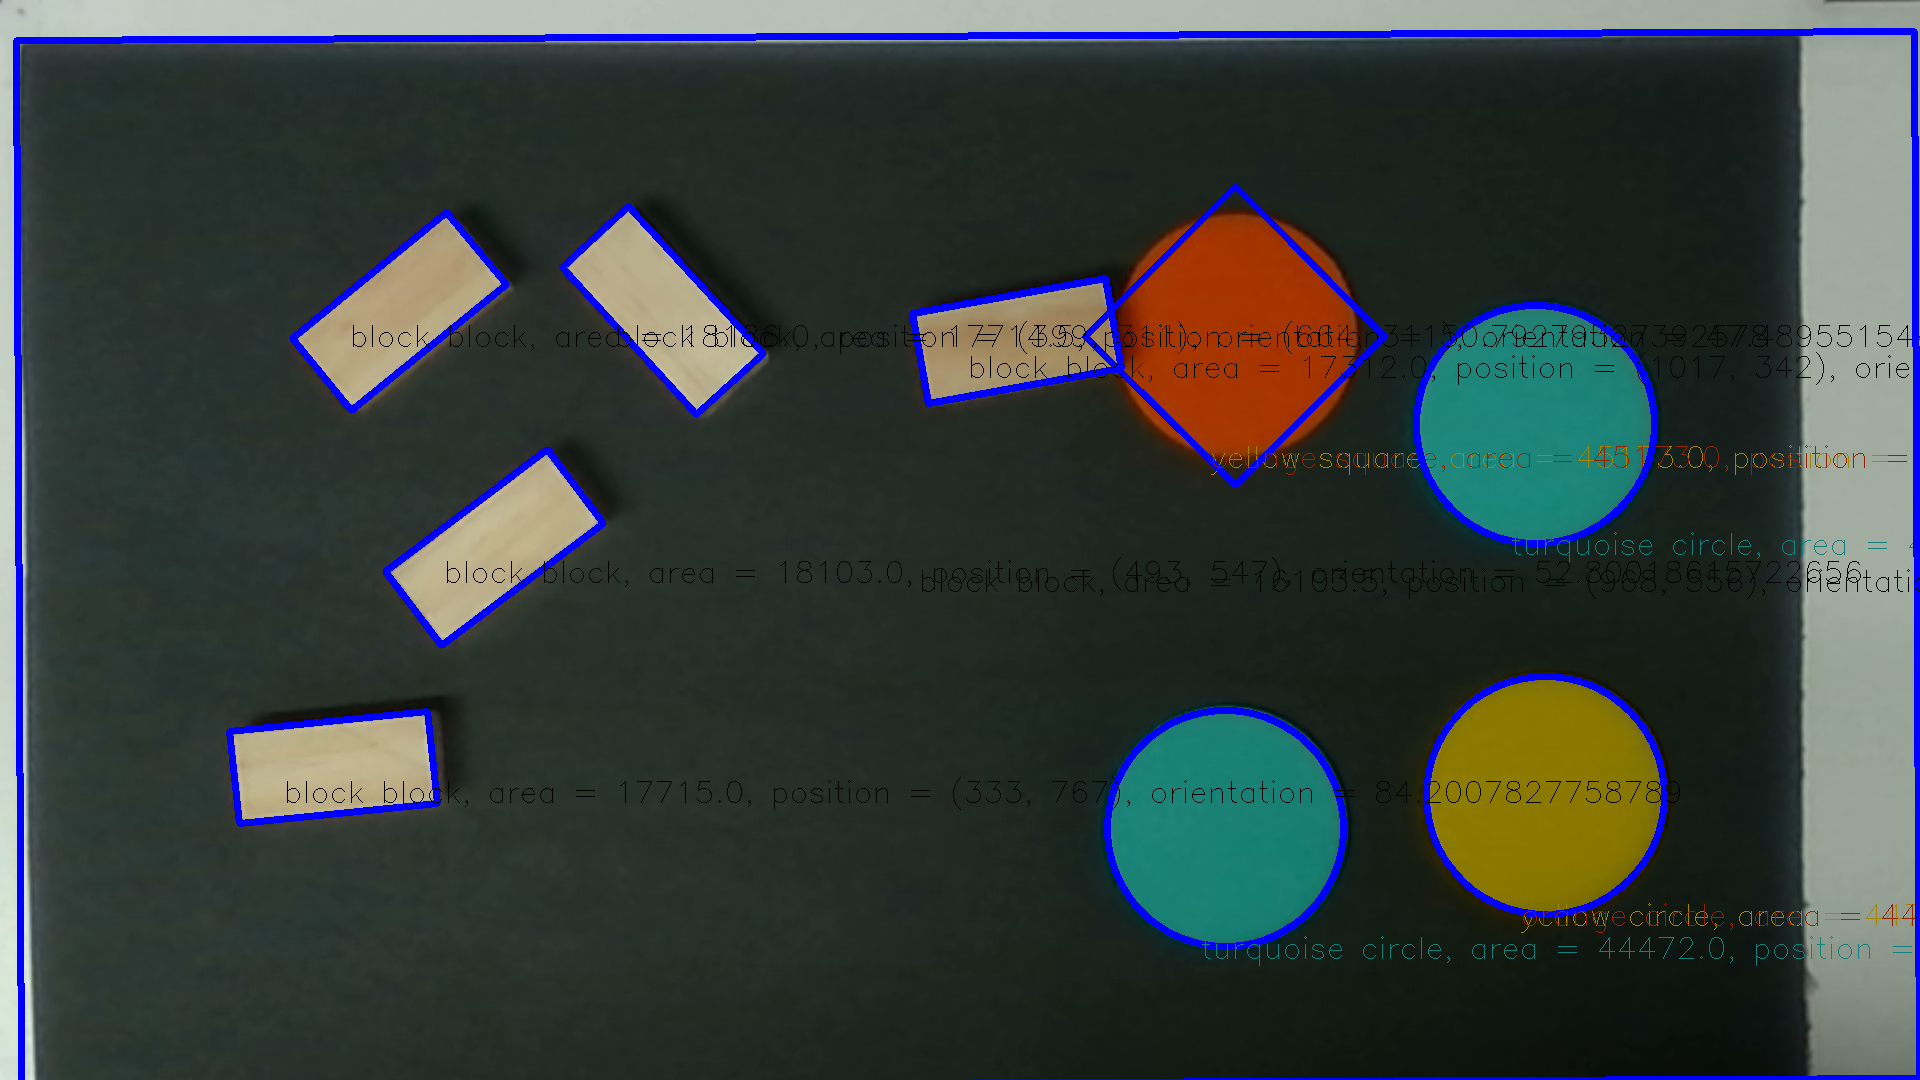
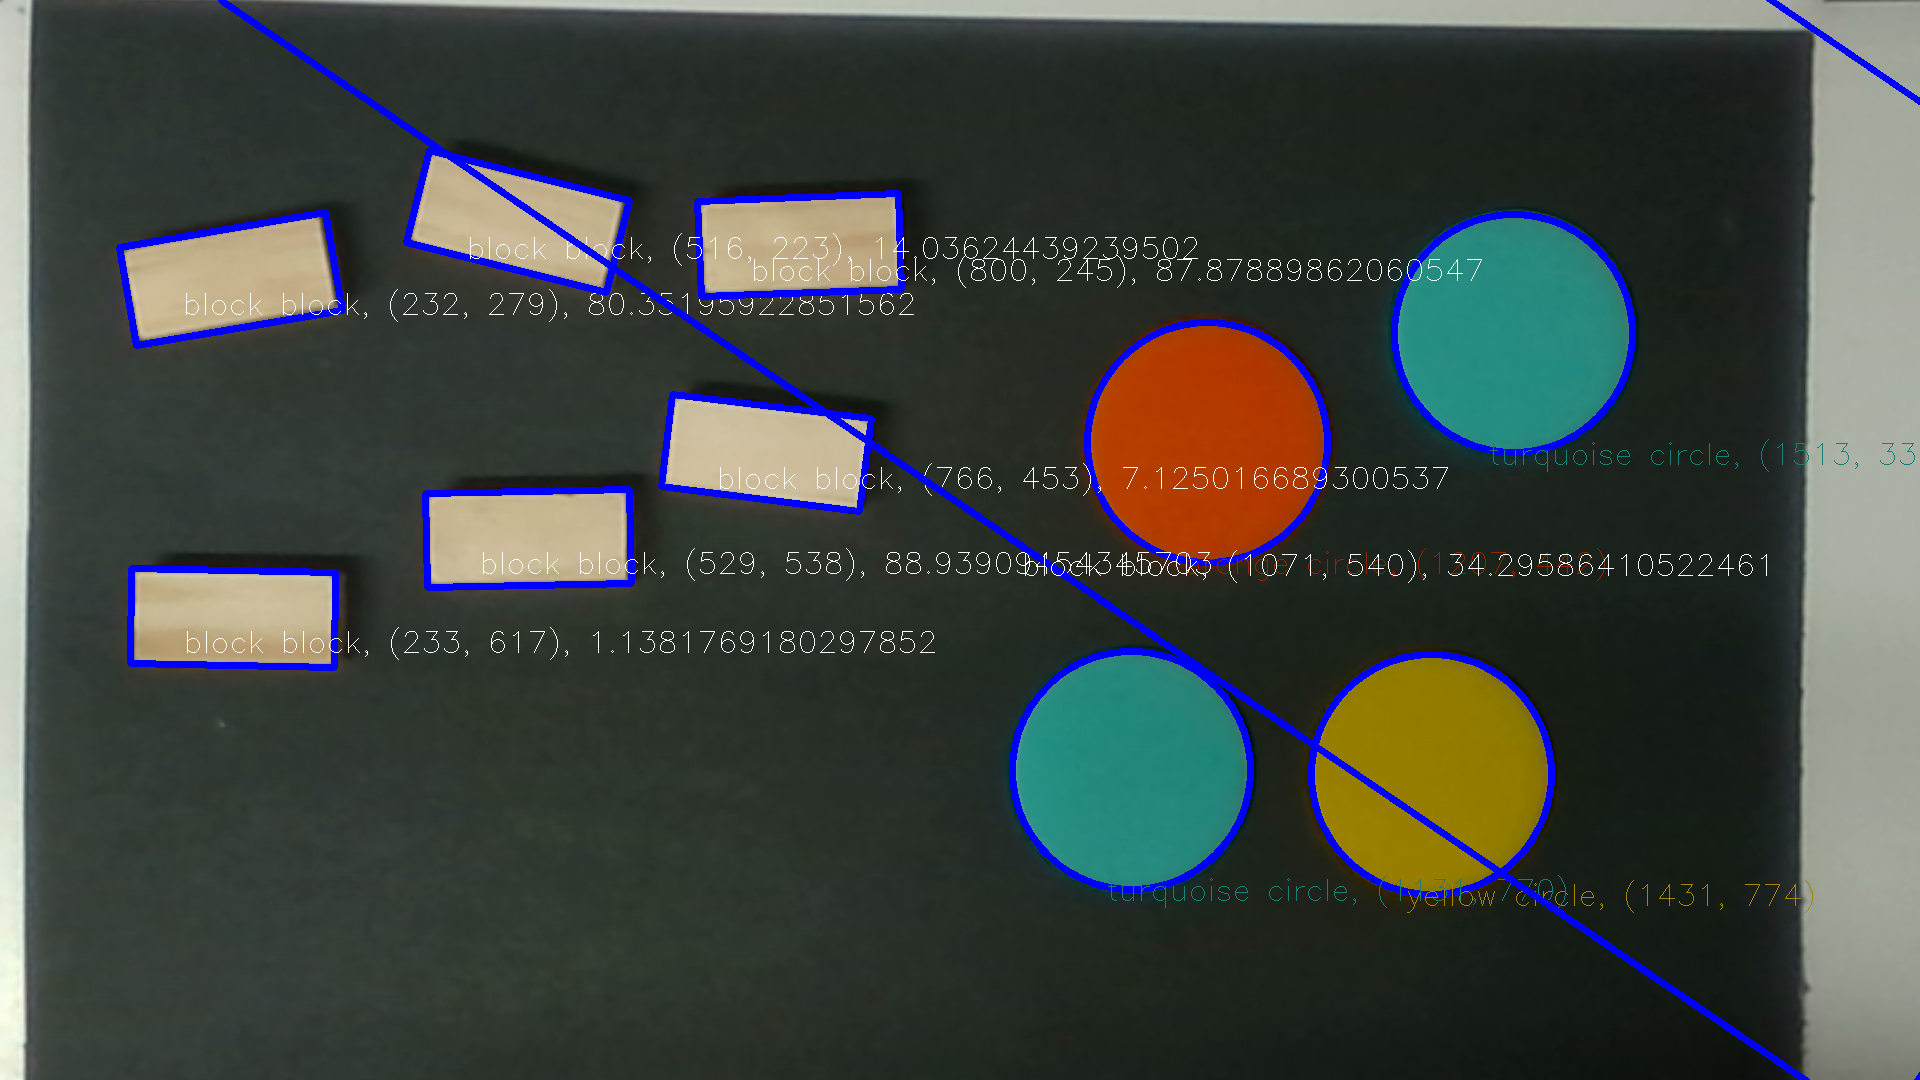
update 4/25

diff --git a/final/tower1movement.py b/final/tower1movement.py
@@ -3,7 +3,8 @@ import compas.geometry as cg
 import json
 import math
 
-task_frame = cg.Frame.from_points([248.49, 192.44, 26.81], [-229.4, 192.41, 24], [247.98, 494.92, 26.35])
+# task_frame = cg.Frame.from_points([248.49, 192.44, 26.81], [-229.4, 192.41, 24], [247.98, 494.92, 26.35])
+task_frame = cg.Frame.from_points([244.76, 189.79, 25], [-228.99, 203.04, 25], [249.35, 489.06, 25])
 speed = 150
 
 def transform_task_to_world_frame(ee_frame_t: cg.Frame, task_frame: cg.Frame) -> cg.Frame:
@@ -26,7 +27,7 @@ def transform_task_to_world_frame(ee_frame_t: cg.Frame, task_frame: cg.Frame) ->
     # print("T is", T)
     ee_frame_t.transform(T)
     ee_frame_w = ee_frame_t
-    print("ee_frame_w is", ee_frame_w)
+    # print("ee_frame_w is", ee_frame_w)
     
     # ====================================================================================
     return ee_frame_w
@@ -41,36 +42,35 @@ def move_to_t_point(abb_rrc, x: float, y: float, z: float):
     x = x / ppi * inch_to_mm
     y = y / ppi * inch_to_mm
     # z = z / ppi * inch_to_mm
-    print("x", x, "y", y, "z", z)
+    print("moving to point: x", x, "y", y, "z", z)
     # Convert task frame position to world frame position
     ee_frame_w = abb_rrc.send_and_wait(rrc.GetFrame())
     ee_frame_t = cg.Frame([x, y, z], [1, 0, 0], [0, 1, 0]) # where we want to move the EE to
     ee_frame_w = transform_task_to_world_frame(ee_frame_t, task_frame) 
     print("after transformation, ee_frame_w is ", ee_frame_w)
-    print("moving to new position: ", x, y, z)
     # Move the robot to the new position
     done = abb_rrc.send_and_wait(rrc.MoveToFrame(ee_frame_w, speed, rrc.Zone.FINE, rrc.Motion.LINEAR))
 
 def move_keep_rotation(abb_rrc, x, y, z, orientation):
     angle = math.radians(orientation)
     current_frame = abb_rrc.send_and_wait(rrc.GetFrame())
-    rotation = cg.Rotation.from_axis_and_angle([0, 0, 1], angle, point=[x, y, z])
+    rotation = cg.Rotation.from_axis_and_angle([0, 0, 1], angle, point=current_frame.point)
     # Apply the rotation to the current end effector frame
     rotated_frame = current_frame.transformed(rotation)
     # Move the robot to the rotated frame
+    print("move keep rotation, moving to frame", rotated_frame)
     abb_rrc.send_and_wait(rrc.MoveToFrame(rotated_frame, speed, rrc.Zone.FINE, rrc.Motion.LINEAR))
 
 def move_to_t_point_rhino(abb_rrc, x: float, y: float, z: float):
     """
     Move end effector to a point in the task frame. 
     """
-    print("x", x, "y", y, "z", z)
+    print("moving to point rhino: x", x, "y", y, "z", z)
     # Convert task frame position to world frame position
     ee_frame_w = abb_rrc.send_and_wait(rrc.GetFrame())
     ee_frame_t = cg.Frame([x, y, z], [1, 0, 0], [0, 1, 0]) # where we want to move the EE to
     ee_frame_w = transform_task_to_world_frame(ee_frame_t, task_frame) 
     print("after transformation, ee_frame_w is ", ee_frame_w)
-    print("moving to new position: ", x, y, z)
 
     # Move the robot to the new position
     done = abb_rrc.send_and_wait(rrc.MoveToFrame(ee_frame_w, speed, rrc.Zone.FINE, rrc.Motion.LINEAR))
@@ -103,7 +103,7 @@ def pick_and_place(abb_rcc, object, ground_objects):
 
     # find where the object is and pick it up
     print("picking", color, shape)
-    pick_object(abb_rcc, pick_location, shape)
+    pick_object(abb_rcc, pick_location, shape, rotation)
 
     # place the object according to position specified in object
     print("placing", color, shape)
@@ -112,39 +112,41 @@ def pick_and_place(abb_rcc, object, ground_objects):
     print("-----------------------------------------------------")
 
 
-def pick_object(abb_rrc, pick_location, shape):
+def pick_object(abb_rrc, pick_location, shape, angle):
     # move to object, then down on object
     x = pick_location[0]
     y = pick_location[1]
     z = pick_location[2]
     # get orientation
-    orientation = 0
     # one block is about 3.125 mm
     move_to_t_point(abb_rrc, x, y, z - 20)
 
-    # if shape == "block":
+    if shape == "block":
         # rotate gripper to match block
-        # current_frame = abb_rrc.send_and_wait(rrc.GetFrame())
+        current_frame = abb_rrc.send_and_wait(rrc.GetFrame())
         # move_keep_rotation(abb_rrc, x, y, z, orientation)
         # # create rotation transformation around Z axis at the current location
         # # rotation is already in radians
-        # # angle = math.radians(angle)
-        # rotation = cg.Rotation.from_axis_and_angle([0, 0, 1], orientation, point=current_frame.point)
+        orientation = math.radians(angle)
+        rotation = cg.Rotation.from_axis_and_angle([0, 0, 1], orientation, point=current_frame.point)
         # # Apply the rotation to the current end effector frame
-        # rotated_frame = current_frame.transformed(rotation)
+        rotated_frame = current_frame.transformed(rotation)
         # # Move the robot to the rotated frame
-        # abb_rrc.send_and_wait(rrc.MoveToFrame(rotated_frame, speed, rrc.Zone.FINE, rrc.Motion.LINEAR))
+        print("rotating to frame", rotated_frame)
+        abb_rrc.send_and_wait(rrc.MoveToFrame(rotated_frame, speed, rrc.Zone.FINE, rrc.Motion.LINEAR))
 
     # Move the robot downwards in the z-axis
-    move_keep_rotation(abb_rrc, x, y, z - 2, orientation)
-    # move_to_t_point(abb_rrc, x, y, z)
+    move_to_t_point(abb_rrc, x, y, z)
+    # move_keep_rotation(abb_rrc, x, y, z, orientation)
+
     # turn gripper on
+    print("turning vacuum on")
     abb_rrc.send_and_wait(rrc.SetDigital('DO00', 1))
     abb_rrc.send_and_wait(rrc.WaitTime(1.0))
     # move object upwards
-    # move_to_t_point(abb_rrc, x, y, z -20)
+    move_to_t_point(abb_rrc, x, y, z - 20)
     # Move the robot 50 mm upwards in the z-axis
-    move_keep_rotation(abb_rrc, x, y, z - 20, orientation)
+    # move_keep_rotation(abb_rrc, x, y, z - 20, orientation)
 
 
 def place_object(abb_rrc, place_position, shape, angle):

diff --git a/final/perception.py b/final/perception.py
@@ -183,7 +183,7 @@ def extract_2d_features(color_path, show=False):
 
             roundness = 4 * np.pi * area / perimeter**2
             # print('roundness:', roundness)
-            is_square = roundness < 0.78
+            is_square = roundness < 0.7
             is_block = area < 30000
             if is_block:
                 print(area, perimeter)
@@ -202,6 +202,7 @@ def extract_2d_features(color_path, show=False):
             if is_block:
                 box = cv2.boxPoints(rect)
                 box = np.intp(box)
+
 
             # add to list of objects
             shape = "square" if is_square else "circle"
@@ -268,7 +269,7 @@ def annotate_features(img_path, annotated_path, objects):
             # Ask candace about side_length
             radius = int((area / np.pi)**0.5)
             img = cv2.circle(img, center=(x, y), radius=radius, color=(255, 0, 0), thickness=5)
-            img = cv2.putText(img, text=f"{color} {shape}, area = {area}, position = ({x}, {y})", 
+            img = cv2.putText(img, text=f"{color} {shape}, ({x}, {y})", 
                               org=(x-25, y + int(side_length / 2) + 25), 
                               fontScale=1, fontFace=font, color=colors[color], thickness=1)
         elif shape == "square":
@@ -277,14 +278,14 @@ def annotate_features(img_path, annotated_path, objects):
             square = cv2.boxPoints(square)
             square = np.intp(square)
             cv2.drawContours(img, [square], 0, (255, 0, 0), 5)
-            img = cv2.putText(img, text=f"{color} {shape}, area = {area}, position = ({x}, {y}), orientation = {orientation}", 
+            img = cv2.putText(img, text=f"{color} {shape}, ({x}, {y}), {orientation}", 
                               org=(x-25, y + int(side_length / 2) + 25), 
                               fontScale=1, fontFace=font, color=colors[color], thickness=1)
         else: 
             cv2.drawContours(img, [box], 0, (255, 0, 0), 5)
-            img = cv2.putText(img, text=f"{color} {shape}, area = {area}, position = ({x}, {y}), orientation = {orientation}", 
+            img = cv2.putText(img, text=f"{color} {shape}, ({x}, {y}), {orientation}", 
                               org=(x-50, y + 35), 
-                              fontScale=1, fontFace=font, color=colors[color], thickness=1)
+                              fontScale=1, fontFace=font, color=(255, 255, 255), thickness=1)
     cv2.imwrite(annotated_path, img)
     plt.imshow(cv2.cvtColor(img, cv2.COLOR_BGR2RGB))
     plt.title("Annotated Image")
